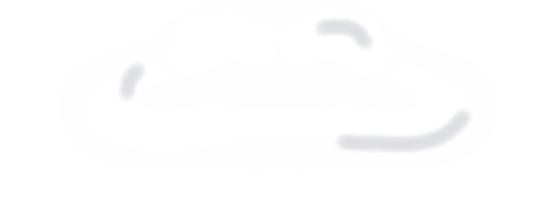
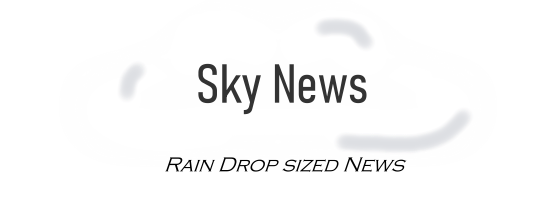
Updated to midterm standards
Added a css for styling, deleted draw function and use javascript to move pictures and sentences. updated html to have css work

Changed region(s): [[0.3431, 0.303, 0.6862, 0.5758], [0.2807, 0.7879, 0.7486, 0.8788]]

diff --git a/sketch.js b/sketch.js
@@ -1,9 +1,13 @@
-let img1;
+let cloud, websiteHeading, fakeNFT, logo;
+let ad1, ad2, ad3, ad1a, ad2a, ad3a;
+let elonMuskTweet, heading1, heading2, websiteTitle;
+let txt1, txt2, nftCaption, elonTweetCaption, ads, ads1;
 
-let a;
+
 function preload(){
+
+  logo = createImg("Images/logo(FINAL).png", "logo");
   cloud = createImg("Images/Cloud.png", "A cloud");
-  websiteHeading = createP("Rain drop sized news");
   fakeNFT = createImg("Images/FakeNFT.png", "World's most expensive NFT");
   ad1 = createImg("Images/ad1.png", "Ad");
   ad2 = createImg("Images/ad2.png", "Ad");
@@ -14,7 +18,6 @@ function preload(){
   elonMuskTweet = createImg("Images/FAKEElonMuskTweet.png", "A tweet from Elon Musk that says \"Bitcoin will drop! Try to sell your coins to someone else if you can! Buy Dogecoin instead!\"");
   heading1 = createP("Most Expensive NFT Sold!");
   heading2 = createP("Bitcoin Projected to Drop Even More!");
-  websiteTitle = createP("Sky News");
   txt1 = createP("This week, the most expensive NFT has been sold. The NFT named \"Smile Boi\" has been sold for $3.9 million. This life changing NFT has such a heavy price to it since it has been created AND signed by the world famous artist, \"Suewoop ヅ\". Everyone is now trying to reach for the stars to get this priceless NFT.");
   txt2 = createP("Bitcoin has dropped to the lowest it has been in awhile. It is projected to drop even lower than it is now. This has caused many people to lose trust in Bitcoin. The drop in Bitcoin may have stemmed from this Tweet from Elon Musk (screenshot on the right). Though it is not confirmed, Mr. Musk does have a large following and has enough influence to cause such an impact.")
   nftCaption = createP("\"Smile Boi\" by Suewoopヅ");
@@ -24,86 +27,29 @@ function preload(){
   ads1 = createP("Ads");
 }
 
+
 function setup() {
-  createCanvas(1519, 1080);
 
-  cloud.position(487, 0);
+  cloud.parent('top');
+  logo.parent("topLeft");
 
-  websiteHeading.style("font-size", "25px");
-  websiteHeading.size(500, 50);
-  websiteHeading.position(650, 150);
+  ads.parent('left');
+  ad1.parent('left');
+  ad2.parent('left');
+  ad3.parent('left');
 
-  websiteTitle.size(300, 300)
-  websiteTitle.style("font-size", "50px");
-  websiteTitle.position(670 , 10);
+  ads1.parent('right');
+  ad1a.parent('right');
+  ad2a.parent('right');
+  ad3a.parent('right');
 
-  heading1.style("font-size", "35px");
-  heading1.size(500, 40);
-  heading1.position(550,205);
+  fakeNFT.parent('mainBodyRight');
+  nftCaption.parent('mainBodyRight');
+  elonMuskTweet.parent('mainBodyRight');
+  elonTweetCaption.parent('mainBodyRight');
 
-  fakeNFT.size(300, 164);
-  fakeNFT.position(1000, 300)
-
-  txt1.size(750, 450);
-  txt1.style("font-size", "20px");
-  txt1.position(230, 310);
-
-  nftCaption.style("font-size", "15px");
-  nftCaption.size(500, 50);
-  nftCaption.position(1050, 455);
-
-  heading2.style("font-size", "35px");
-  heading2.size(700, 40);
-  heading2.position(500,610);
-
-  txt2.size(750, 450);
-  txt2.style("font-size", "20px");
-  txt2.position(230, 715);
-
-  elonMuskTweet.size(300, 164);
-  elonMuskTweet.position(1000, 725);
-
-  elonTweetCaption.style("font-size", "15px");
-  elonTweetCaption.size(500, 50);
-  elonTweetCaption.position(1050, 880);
-
-
-  ads.style("font-size", "15px");
-  ads.position(91, 200);
-
-  ads1.style("font-size", "15px");
-  ads1.position(1413, 200);
-
-  ad1.size(180, 120);
-  ad1.position(17, 250);
-
-  ad2.size(180, 120);
-  ad2.position(17, 475);
-
-  ad3.size(180, 120);
-  ad3.position(17, 700);
-
-  ad1a.size(180, 120);
-  ad1a.position(1335, 250);
-
-  ad2a.size(180, 120);
-  ad2a.position(1335, 475);
-
-  ad3a.size(180, 120);
-  ad3a.position(1335, 700);
-}
-
-function draw() {
-  background(255, 255, 255);
-  //background(140, 216, 255);
-
-  stroke(102);
-  fill(230, 230, 230);
-  rect(1319, 0, 200, 1080)
-  rect(0, 0, 200, 1080)
-
-
-  fill(140, 216, 255);
-  rect(0, 0, 1519, 200)
-
+  heading1.parent('mainBody');
+  txt1.parent('mainBody');
+  heading2.parent('mainBody');
+  txt2.parent('mainBody');
 }

diff --git a/main.css b/main.css
@@ -1,0 +1,160 @@
+body {
+  background-color: #dfe5f0;
+  display: grid;
+  justify-content: center;
+  padding: 0;
+  margin: 0;
+  grid-template-columns: 20% 20% 20% 20% 20%;
+  grid-template-rows: 20% 20% 20% 20% 20%;
+}
+
+#top{
+  display: flex;
+  flex-direction: column;
+  border-top: medium solid #000000;
+  border-bottom: medium solid #000000;
+  align-items: center;
+  justify-content: space-evenly;
+  object-fit: scale-down;
+  grid-column-start: 2;
+  grid-column-end: 5;
+  grid-row-start: 1;
+  grid-row-end: 1;
+}
+
+#top img{
+  justify-content: center;
+  width: 50%;
+  height: 100%;
+}
+
+#top p{
+  z-index: 10;
+}
+
+#topLeft{
+  display: flex;
+  flex-direction: column;
+  border-bottom: medium solid #000000;
+  border-left: medium solid #000000;
+  border-top: medium solid #000000;
+  align-items: center;
+  justify-content: space-evenly;
+  object-fit: scale-down;
+  grid-column-start: 1;
+  grid-column-end: 2;
+  grid-row-start: 1;
+  grid-row-end: 1;
+}
+
+#topLeft img{
+  justify-content: center;
+  width: 50%;
+  height: 100%;
+}
+
+#topRight{
+  display: flex;
+  flex-direction: column;
+  border-top: medium solid #000000;
+  border-bottom: medium solid #000000;
+  border-right: medium solid #000000;
+  align-items: center;
+  justify-content: space-evenly;
+  object-fit: scale-down;
+  grid-column-start: 5;
+  grid-column-end: 6;
+  grid-row-start: 1;
+  grid-row-end: 1;
+}
+
+#left{
+  display: flex;
+  flex-direction: column;
+  border: medium solid #000000;
+  border-top: medium solid #dfe5f0;
+  align-items: center;
+  justify-content: space-evenly;
+  object-fit: scale-down;
+  grid-column-start: 1;
+  grid-column-end: 2;
+  grid-row-start: 2;
+  grid-row-end: 6;
+}
+
+#left img{
+  box-shadow: 10px 5px 5px grey;
+  justify-content: space-evenly;
+  width: 50%;
+  height: 20%;
+}
+
+#right{
+  display: flex;
+  flex-direction: column;
+  border-bottom: 5px;
+  border: medium solid #000000;
+  border-top: medium solid #dfe5f0;
+  align-items: center;
+  justify-content: space-evenly;
+  object-fit: contain;
+  grid-column-start: 5;
+  grid-column-end: 6;
+  grid-row-start: 2;
+  grid-row-end: 6;
+}
+
+#right img{
+  box-shadow: 10px 5px 5px grey;
+  justify-content: space-evenly;
+  width: 50%;
+  height: 20%;
+}
+
+#mainBody{
+  display: flex;
+  flex-direction: column;
+  border-bottom: 5px;
+  border-bottom: medium solid #000000;
+  align-items: center;
+  justify-content: space-evenly;
+  text-align: center;
+  object-fit: contain;
+  grid-column-start: 2;
+  grid-column-end: 4;
+  grid-row-start: 2;
+  grid-row-end: 6;
+}
+#mainBody img{
+  max-width: 25%;
+  max-height: 25%;
+}
+
+#mainBody p{
+  grid-column-start: 2;
+  grid-column-end: 4;
+  font-size: 18px;
+  font-family: "Lucida Console", "Courier New", monospace;
+}
+
+#mainBodyRight{
+  display: flex;
+  flex-direction: column;
+  border-bottom: medium solid #000000;
+  align-items: center;
+  justify-content: space-around;
+  object-fit: contain;
+  grid-column-start: 4;
+  grid-column-end: 5;
+  grid-row-start: 2;
+  grid-row-end: 6;
+}
+#mainBodyRight img{
+  box-shadow: 10px 5px 5px grey;
+  max-width: 75%;
+  max-height: 75%;
+}
+
+#mainBodyRight p{
+  font-family: "Lucida Console", "Courier New", monospace;
+}

diff --git a/index.html b/index.html
@@ -1,29 +1,26 @@
 <!DOCTYPE html>
-<html lang="">
+<html lang="en">
 
 <head>
-
+  <link rel = "stylesheet" href = "main.css">
   <meta charset="utf-8">
   <meta name="viewport" content="width=device-width, initial-scale=1.0">
-  <title>Sky News</title>
-  <style>
-  }
-    body {
-      padding: 0;
-      margin: 0;
-    }
-  </style>
+  <title>website Copy</title>
 
-  <script src="../p5.js"></script>
-  <!-- <script src="../addons/p5.sound.js"></script> -->
+
   <script src="sketch.js"></script>
 
-</head>
+  <script src="https://cdn.jsdelivr.net/npm/p5@1.4.1/lib/p5.js"></script>
 
+</head>
 <body>
-  <div class="square"></div>
-  <main>
-  </main>
+  <div id="top"></div>
+  <div id="topLeft"></div>
+  <div id="topRight"></div>
+  <div id="left"></div>
+  <div id="right"></div>
+  <div id="mainBody"></div>
+  <div id="mainBodyRight"></div>
 </body>
 
 </html>
